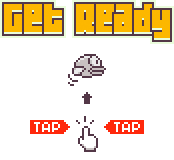
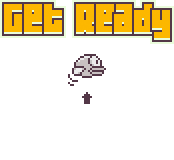
UI updated

diff --git a/game.js b/game.js
@@ -210,10 +210,13 @@
  const UI = {
     getReady : {sprite : new Image()},
     gameOver : {sprite : new Image()},
+    tap : [{sprite : new Image()},
+           {sprite : new Image()}],
     score : {
         curr : 0,
         best : 0,
     },
+    frame : 0,
     draw : function() {
         switch (state.curr) {
             case state.getReady :
@@ -223,9 +226,15 @@
                 curr = this.gameOver;
                 break;
         }
-        y = parseFloat(scrn.height-curr.sprite.height)/2;
-        x = parseFloat(scrn.width-curr.sprite.width)/2;
-        if(state.curr!=state.Play)sctx.drawImage(curr.sprite,x,y);
+        let y = parseFloat(scrn.height-curr.sprite.height)/2;
+        let x = parseFloat(scrn.width-curr.sprite.width)/2;
+        if(state.curr!=state.Play)
+        { 
+            let tx = parseFloat(scrn.width - this.tap[0].sprite.width)/2;
+            let ty = y + curr.sprite.height- this.tap[0].sprite.height;
+            sctx.drawImage(curr.sprite,x,y);
+            sctx.drawImage(this.tap[this.frame].sprite,tx,ty)
+        }
         this.drawScore();
     },
     drawScore : function() {
@@ -246,8 +255,8 @@
                         this.score.best = Math.max(this.score.curr,localStorage.getItem("best"));
                         localStorage.setItem("best",this.score.best);
                         let bs = `BEST  :     ${this.score.best}`;
-                        sctx.fillText(sc,scrn.width/2-80,scrn.height/2);
-                        sctx.strokeText(sc,scrn.width/2-80,scrn.height/2);
+                        sctx.fillText(sc,scrn.width/2-80,scrn.height/2+0);
+                        sctx.strokeText(sc,scrn.width/2-80,scrn.height/2+0);
                         sctx.fillText(bs,scrn.width/2-80,scrn.height/2+30);
                         sctx.strokeText(bs,scrn.width/2-80,scrn.height/2+30);
                     }
@@ -258,6 +267,11 @@
                     
                 break;
         }
+    },
+    update : function() {
+        if(state.curr == state.Play) return;
+        this.frame += (frames % 10==0) ? 1 :0;
+        this.frame = this.frame % this.tap.length;
     }
 
  };
@@ -268,6 +282,8 @@ pipe.top.sprite.src="img/toppipe.png";
 pipe.bot.sprite.src="img/botpipe.png";
 UI.getReady.sprite.src="img/getready.png";
 UI.gameOver.sprite.src="img/gameOver.png";
+UI.tap[0].sprite.src="img/tap/t0.png";
+UI.tap[1].sprite.src="img/tap/t1.png";
 bird.animations[0].sprite.src="img/bird/b0.png";
 bird.animations[1].sprite.src="img/bird/b1.png";
 bird.animations[2].sprite.src="img/bird/b2.png";
@@ -293,6 +309,7 @@ gameLoop();
   bird.update();  
   gnd.update();
   pipe.update();
+  UI.update();
  }
  function draw()
  {
